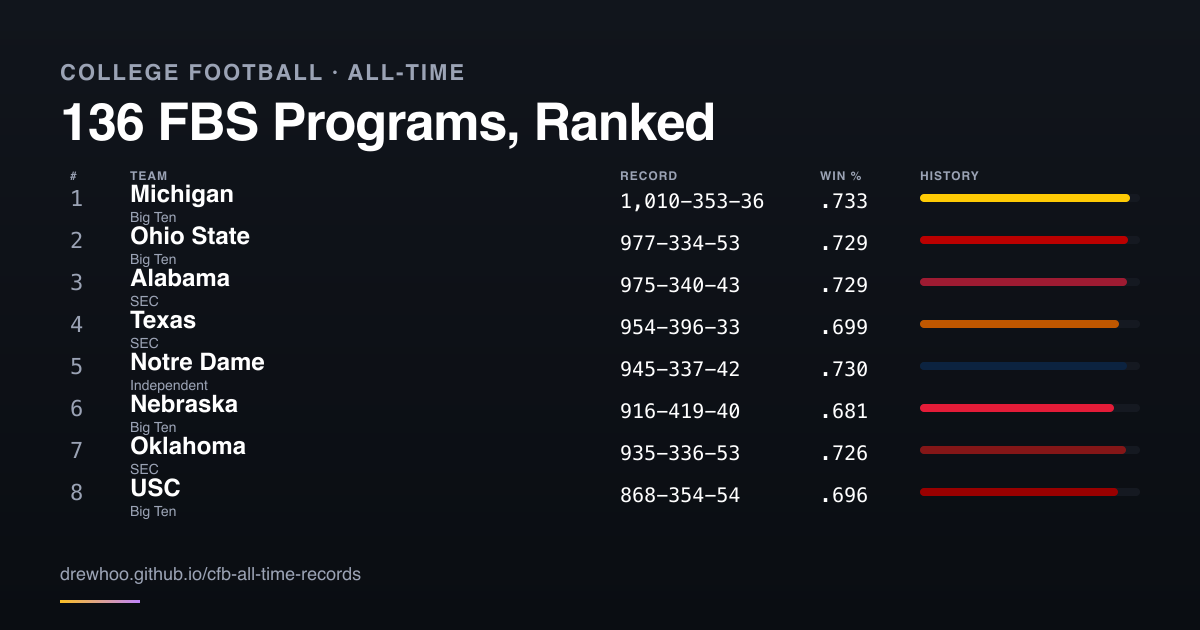
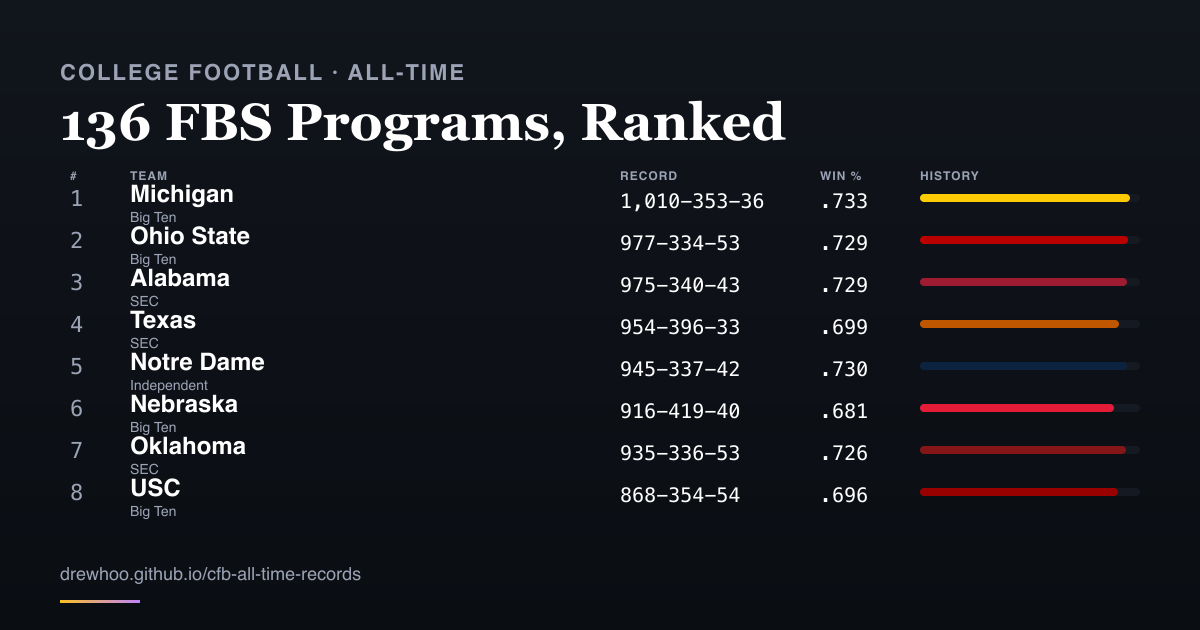
Titles in Georgia Bold, the face the other sports sites share: both pages and both share images

Changed region(s): [[0.0308, 0.1508, 0.6783, 0.2413]]

diff --git a/src/App.jsx b/src/App.jsx
@@ -138,7 +138,7 @@ export default function App() {
           <a href="./" style={{ display: "inline-block", fontSize: 11, color: "var(--text-3)", textDecoration: "none", marginBottom: 10, padding: "4px 10px", border: "1px solid rgba(255,255,255,0.1)", borderRadius: 6, letterSpacing: 0.3 }}>
             ← Championship Grid (all sports)
           </a>
-          <h1 style={{ fontSize: 26, fontWeight: 700, letterSpacing: -0.5, marginBottom: 4, background: "linear-gradient(135deg, #818cf8, #c084fc)", WebkitBackgroundClip: "text", WebkitTextFillColor: "transparent" }}>
+          <h1 style={{ fontFamily: "Georgia, 'Source Serif 4', 'Times New Roman', serif", fontSize: 26, fontWeight: 700, letterSpacing: 0.5, marginBottom: 4, background: "linear-gradient(135deg, #818cf8, #c084fc)", WebkitBackgroundClip: "text", WebkitTextFillColor: "transparent" }}>
             College Football All-Time Records
           </h1>
           <p style={{ color: "var(--text-2)", fontSize: 13 }}>

diff --git a/src/ChampionshipGrid.jsx b/src/ChampionshipGrid.jsx
@@ -743,9 +743,10 @@ body {
   border-color: rgba(255,255,255,0.25);
 }
 .cg-header h1 {
+  font-family: Georgia, 'Source Serif 4', 'Times New Roman', serif;
   font-size: 22px;
   font-weight: 700;
-  letter-spacing: -0.02em;
+  letter-spacing: 0.02em;
   color: #fff;
   margin-top: 6px;
 }
